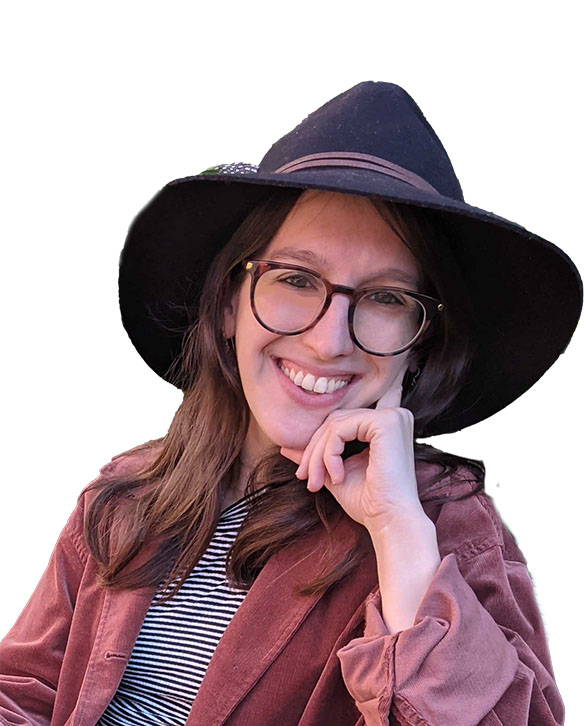
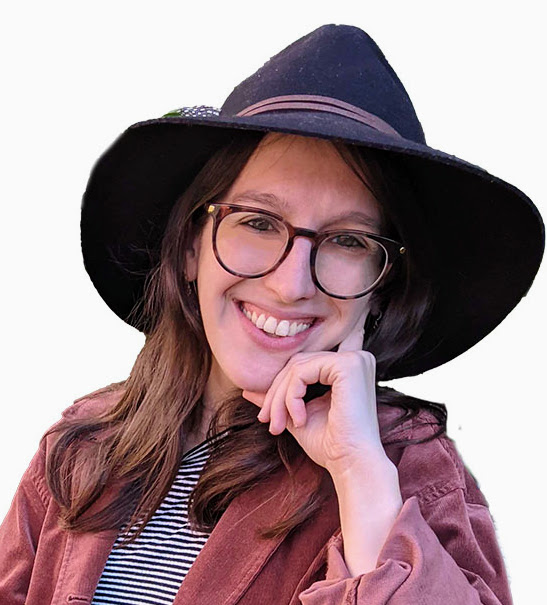
Added photo and text scroll to header

diff --git a/index.html b/index.html
@@ -28,8 +28,8 @@
                <ul>
                   <li><a href="#home"><i class="fa-solid fa-house"></i> Home</a></li>
                   <li><a href="#about"><i class="fa-solid fa-user"></i> About</a></li>
-                  <li><a href="#work"><i class="fa-solid fa-laptop-code"></i> Projects</a></li>
                   <li><a href="#skills"><i class="fa-solid fa-code-branch"></i> Skills</a></li>
+                  <li><a href="#work"><i class="fa-solid fa-laptop-code"></i> Projects</a></li>
                   <li><a href="#connect"><i class="fa-solid fa-at"></i> Connect</a></li>
                </ul>
             </nav>
@@ -42,16 +42,32 @@
                <h1>Dani Darling</h1>
                <i class="fa-solid fa-code"></i>
                <h2>Front End Developer</h2>
+
+               <div class="i-title">
+                  <div class="i-title-wrapper">
+                     <div class="i-title-item">Freelancer</div>
+                     <div class="i-title-item">Filmmaker</div>
+                     <div class="i-title-item">ESL Teacher</div>
+                     <div class="i-title-item">Cat Mother</div>
+                     <div class="i-title-item">Coffee Lover</div>
+                  </div>
+               </div>
             </div>  
+
+            <div class="i-photo">
+               <figure>
+                  <img src="img/dd-clear.jpg" alt id="profile-image">
+               </figure>
+            </div>
          </div>
       </header>
 
       <main>
          <section id="about">
             <div class="content-wrapper">
-               <h3>About</h3>
+               <h3>About Me</h3>
                <figure>
-                  <img src="img/dd-clear.jpg" alt id="profile-image">
+                  <img src="img/about-photo.jpg" alt id="about-photo">
                </figure>
                <p class="about-text">
                   Hi there, I’m Dani Darling! I’m a Front End Developer who is passionate about building interactive websites that solve complex problems
@@ -65,6 +81,33 @@
                <p class="about-text">
                   When I’m not coding, you can find me reading a speculative fiction novel, singing Broadway tunes, or out hiking in the middle of the woods.
                </p>
+            </div>
+         </section>
+
+         <section id="skills">
+            <div class="content-wrapper">
+               <h3>Skills</h3>
+               <div class="language-wrapper">
+                  <ul> <!-- Icons -->
+                     <i class="fa-brands fa-html5"></i>
+                     <i class="fa-brands fa-css3-alt"></i>
+                     <i class="fa-brands fa-js-square"></i>
+                     <i class="fa-brands fa-react"></i>
+                     <i class="fa-brands fa-git-alt"></i>
+                     <i class="fa-brands fa-github"></i>
+                  </ul>
+               </div>
+               <div class="tool-wrapper">
+                  <h4>
+                     Photoshop | 
+                     CodeSandbox | 
+                     Chrome DevTools | 
+                     Responsive Design | 
+                     FTP Client | 
+                     Web Hosting | 
+                     Visual Studio Code
+                  </h4>
+               </div>
             </div>
          </section>
 
@@ -152,33 +195,6 @@
                         Flexbox, Responsive Typography, Photoshop, Media Queries
                      </p>
                   </div>
-               </div>
-            </div>
-         </section>
-
-         <section id="skills">
-            <div class="content-wrapper">
-               <h3>Skills</h3>
-               <div class="language-wrapper">
-                  <ul> <!-- Icons -->
-                     <i class="fa-brands fa-html5"></i>
-                     <i class="fa-brands fa-css3-alt"></i>
-                     <i class="fa-brands fa-js-square"></i>
-                     <i class="fa-brands fa-react"></i>
-                     <i class="fa-brands fa-git-alt"></i>
-                     <i class="fa-brands fa-github"></i>
-                  </ul>
-               </div>
-               <div class="tool-wrapper">
-                  <h4>
-                     Photoshop | 
-                     CodeSandbox | 
-                     Chrome DevTools | 
-                     Responsive Design | 
-                     FTP Client | 
-                     Web Hosting | 
-                     Visual Studio Code
-                  </h4>
                </div>
             </div>
          </section>

diff --git a/css/style.css b/css/style.css
@@ -168,7 +168,60 @@ ul li a i {
     color: #89c9ff;
 }
 
-/* ---------- HOMEPAGE ---------- */
+/* --- Alternate Title Text Scroll --- */
+.i-title {
+    height: 50px;
+    overflow: hidden;
+}
+
+.i-title-wrapper {
+    height: 100%;
+    animation: move 10s ease-in-out infinite alternate;
+}
+
+@keyframes move {
+    25%{
+        transform:translateY(-50px);
+    }
+    50%{
+        transform: translateY(-100px);
+    }
+    75%{
+        transform: translateY(-150px);
+    }
+    100%{
+        transform: translateY(-200px);
+    }
+}
+
+.i-title-item {
+    height: 50px;
+    font-size: 30px;
+    font-weight: bold;
+    color: var(--rose);
+    display: flex;
+    justify-content: center;
+    align-items: center;
+}
+
+/* -------- INTRO TITLE -------- */
+
+/* Intro Photo */
+.i-photo {
+    display: flex;
+    justify-content: center;
+    margin: 30px;
+}
+
+.i-photo img {
+    border-radius: 50% !important;
+    object-fit: cover;
+    border-style: 5px solid var(--rose);
+    overflow: hidden;
+    box-shadow: 0 0 0 5px rgba(250, 250, 250);
+}
+
+/* ----------------- HOMEPAGE ----------------- */
 /* Projects */
 #work {
     background-color: var(--pale-green);
